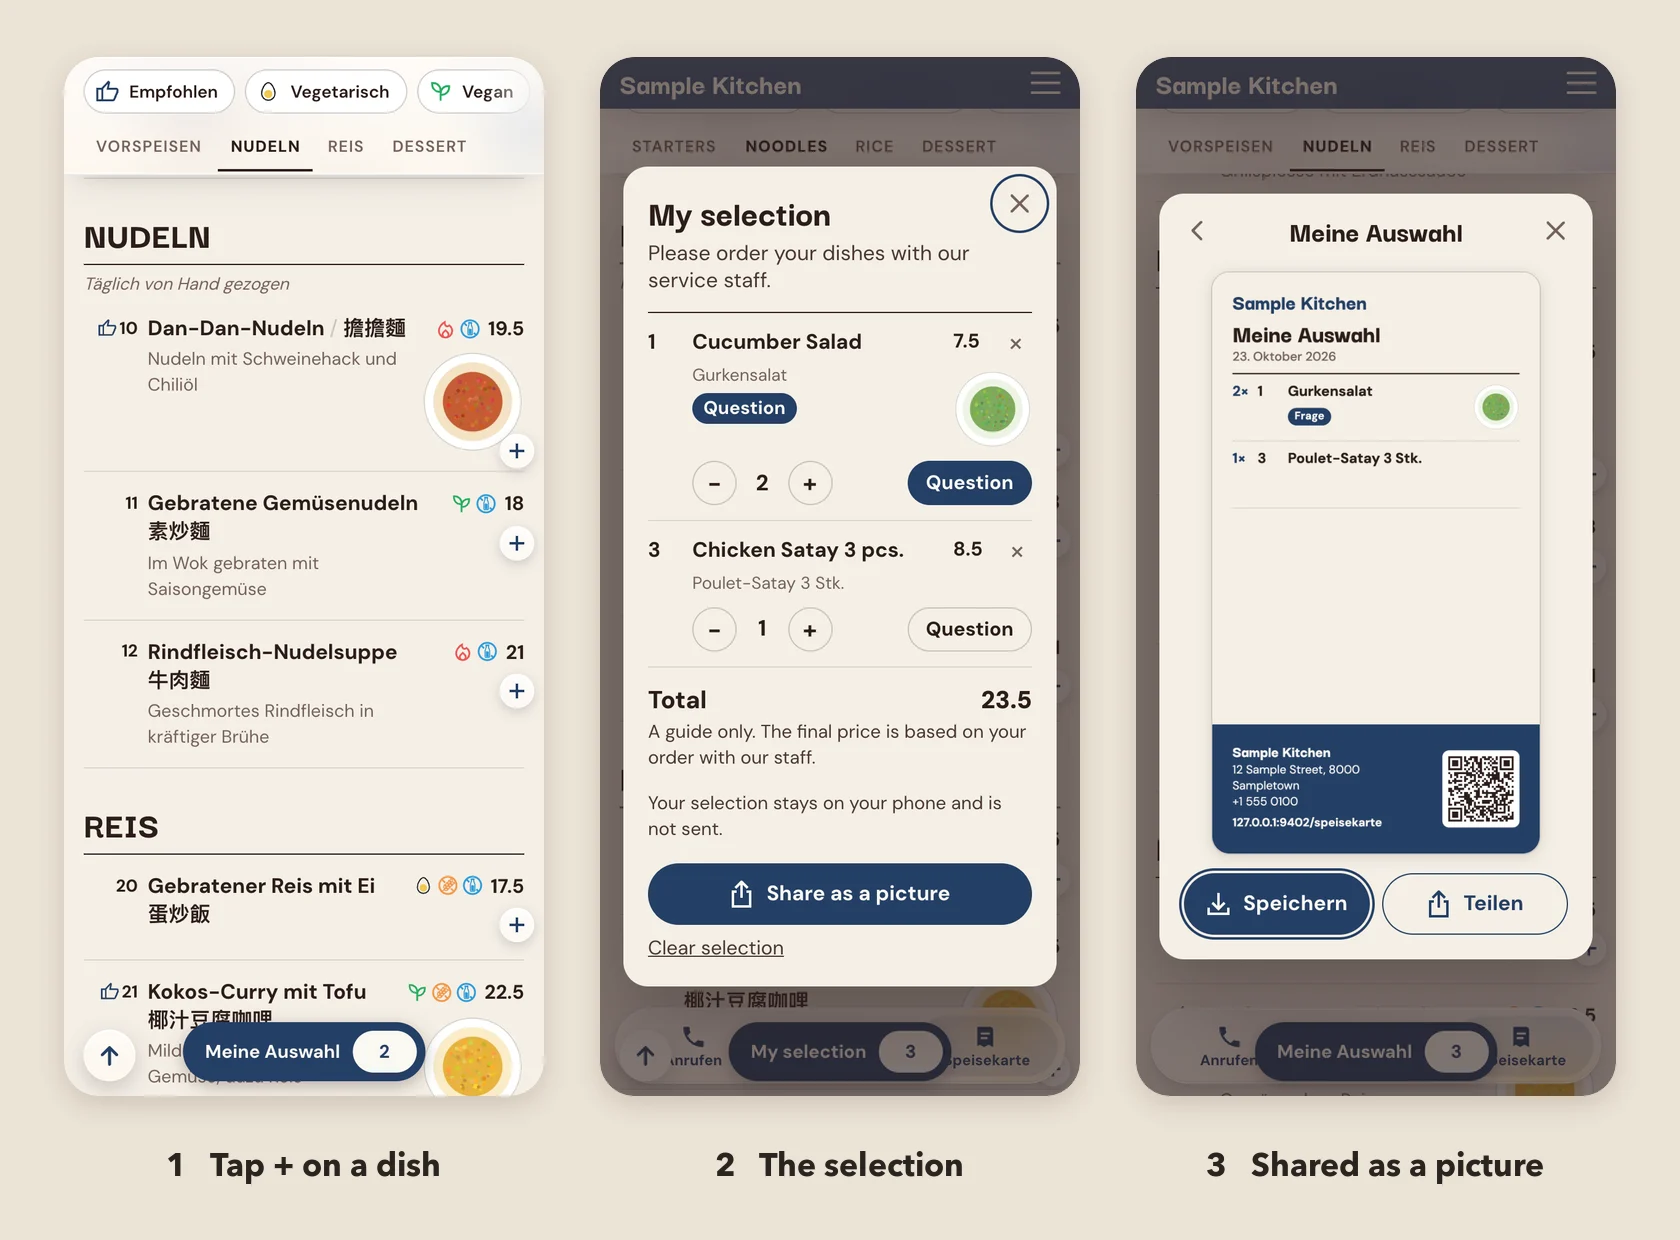
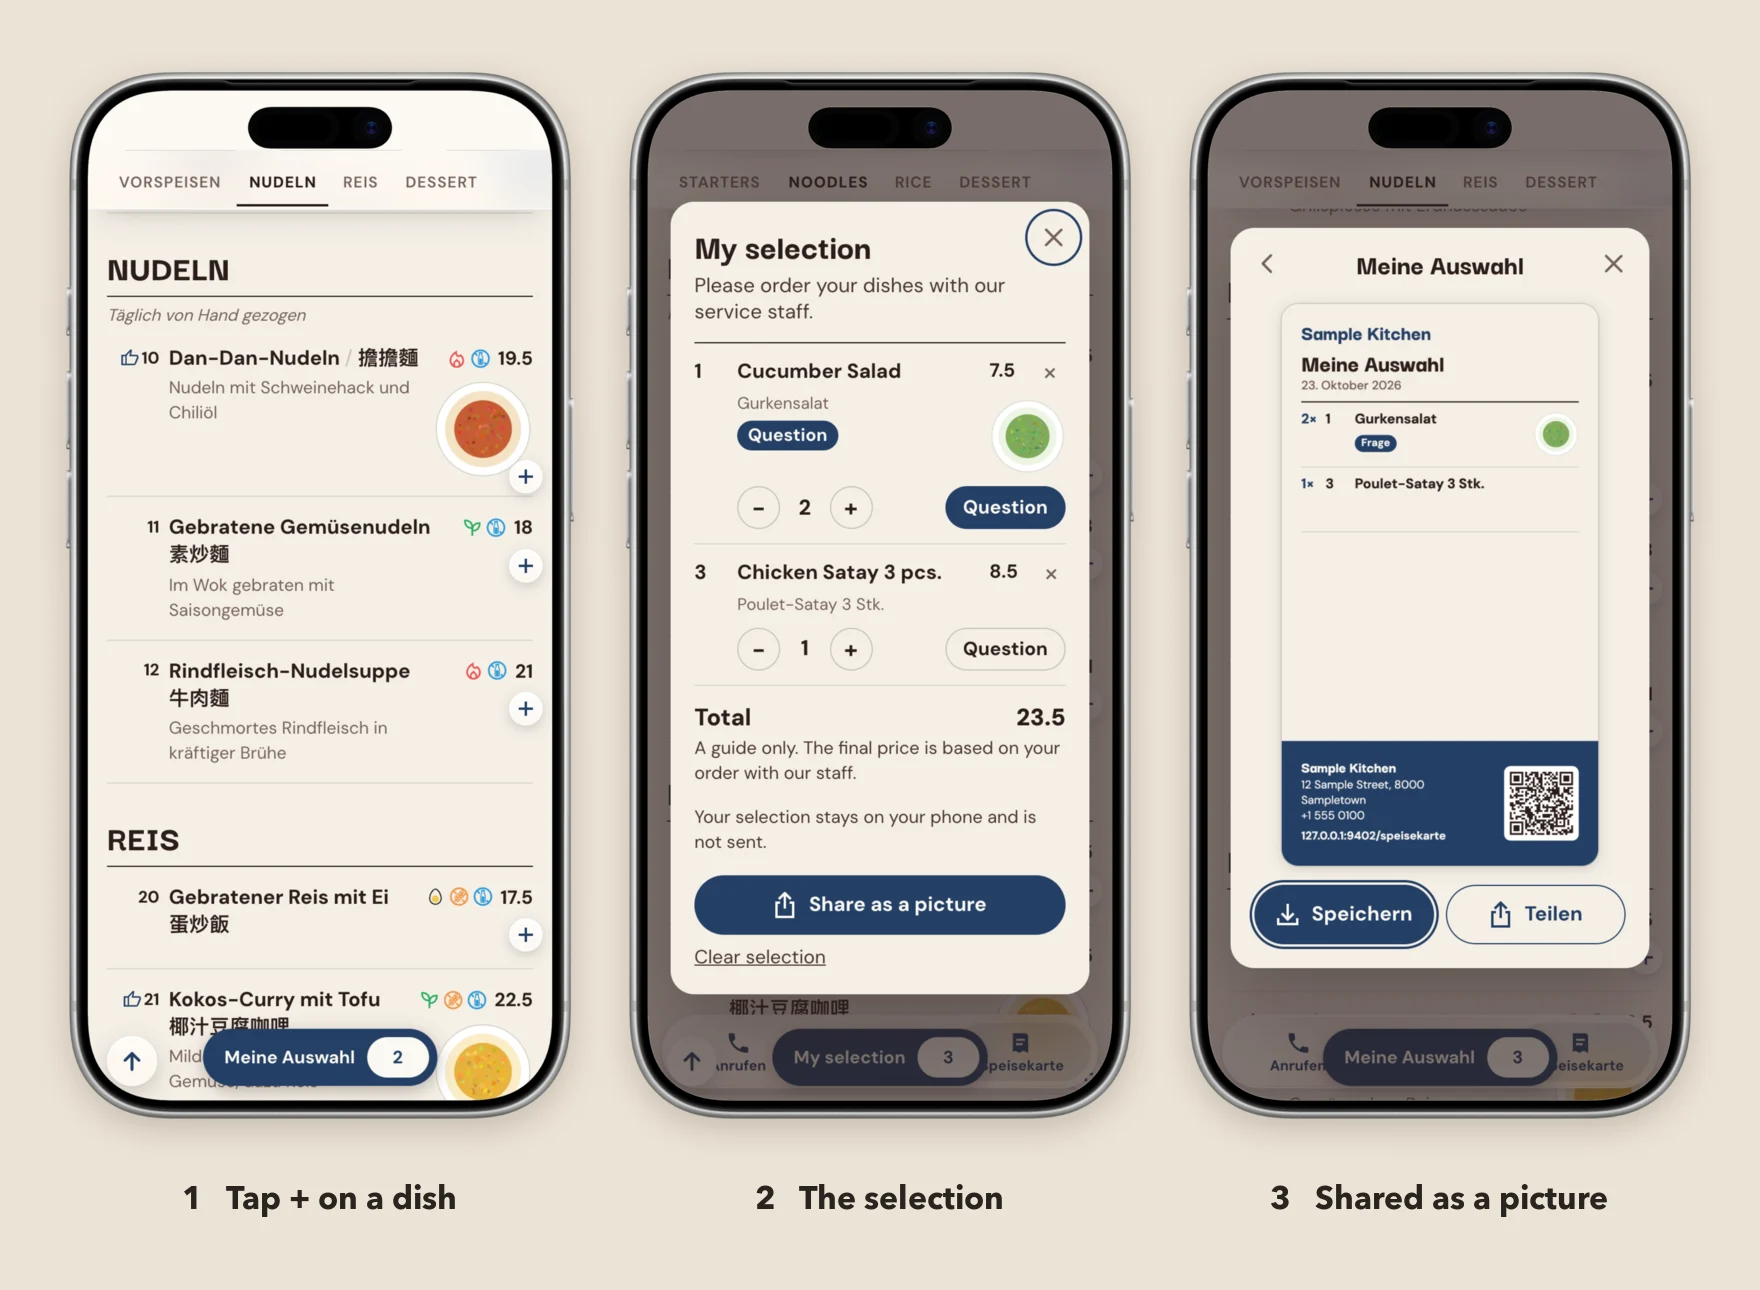
MenuDash: the selection picture in iPhone frames

diff --git a/src/content/projects/menudash/index.md b/src/content/projects/menudash/index.md
@@ -111,7 +111,7 @@ So guests can make a selection. With it switched on, each dish gets a + button, 
 - **The picture outlives the menu, so it carries no prices.** It gets forwarded and kept, and prices change. The selection on the page has them; the picture doesn't.
 - **And the owner learns intent, not only attention.** With the Statistics add-on, the owner sees which dishes guests planned to order, not only which ones they looked at.
 
-![The guest's selection on a phone, with sample dishes, in three steps: 1, the menu with a + beside each dish and a “Meine Auswahl” bar at the bottom; 2, the selection in English, each dish with its number, quantity and a Question button, and the German name under the English one; 3, the selection drawn as a picture with the restaurant's address and a QR code, and Save and Share buttons.](./menudash-selection.webp)
+![The guest's selection on three iPhones, with sample dishes: 1, the menu with a + beside each dish and a “Meine Auswahl” bar at the bottom; 2, the selection in English, each dish with its number, quantity and a Question button, and the German name under the English one; 3, the selection drawn as a picture with the restaurant's address and a QR code, and Save and Share buttons.](./menudash-selection.webp)
 
 The restaurant switches it on from the dashboard, and the share picture separately. It is built and installed on afatt.ch, and not yet switched on there.
 
